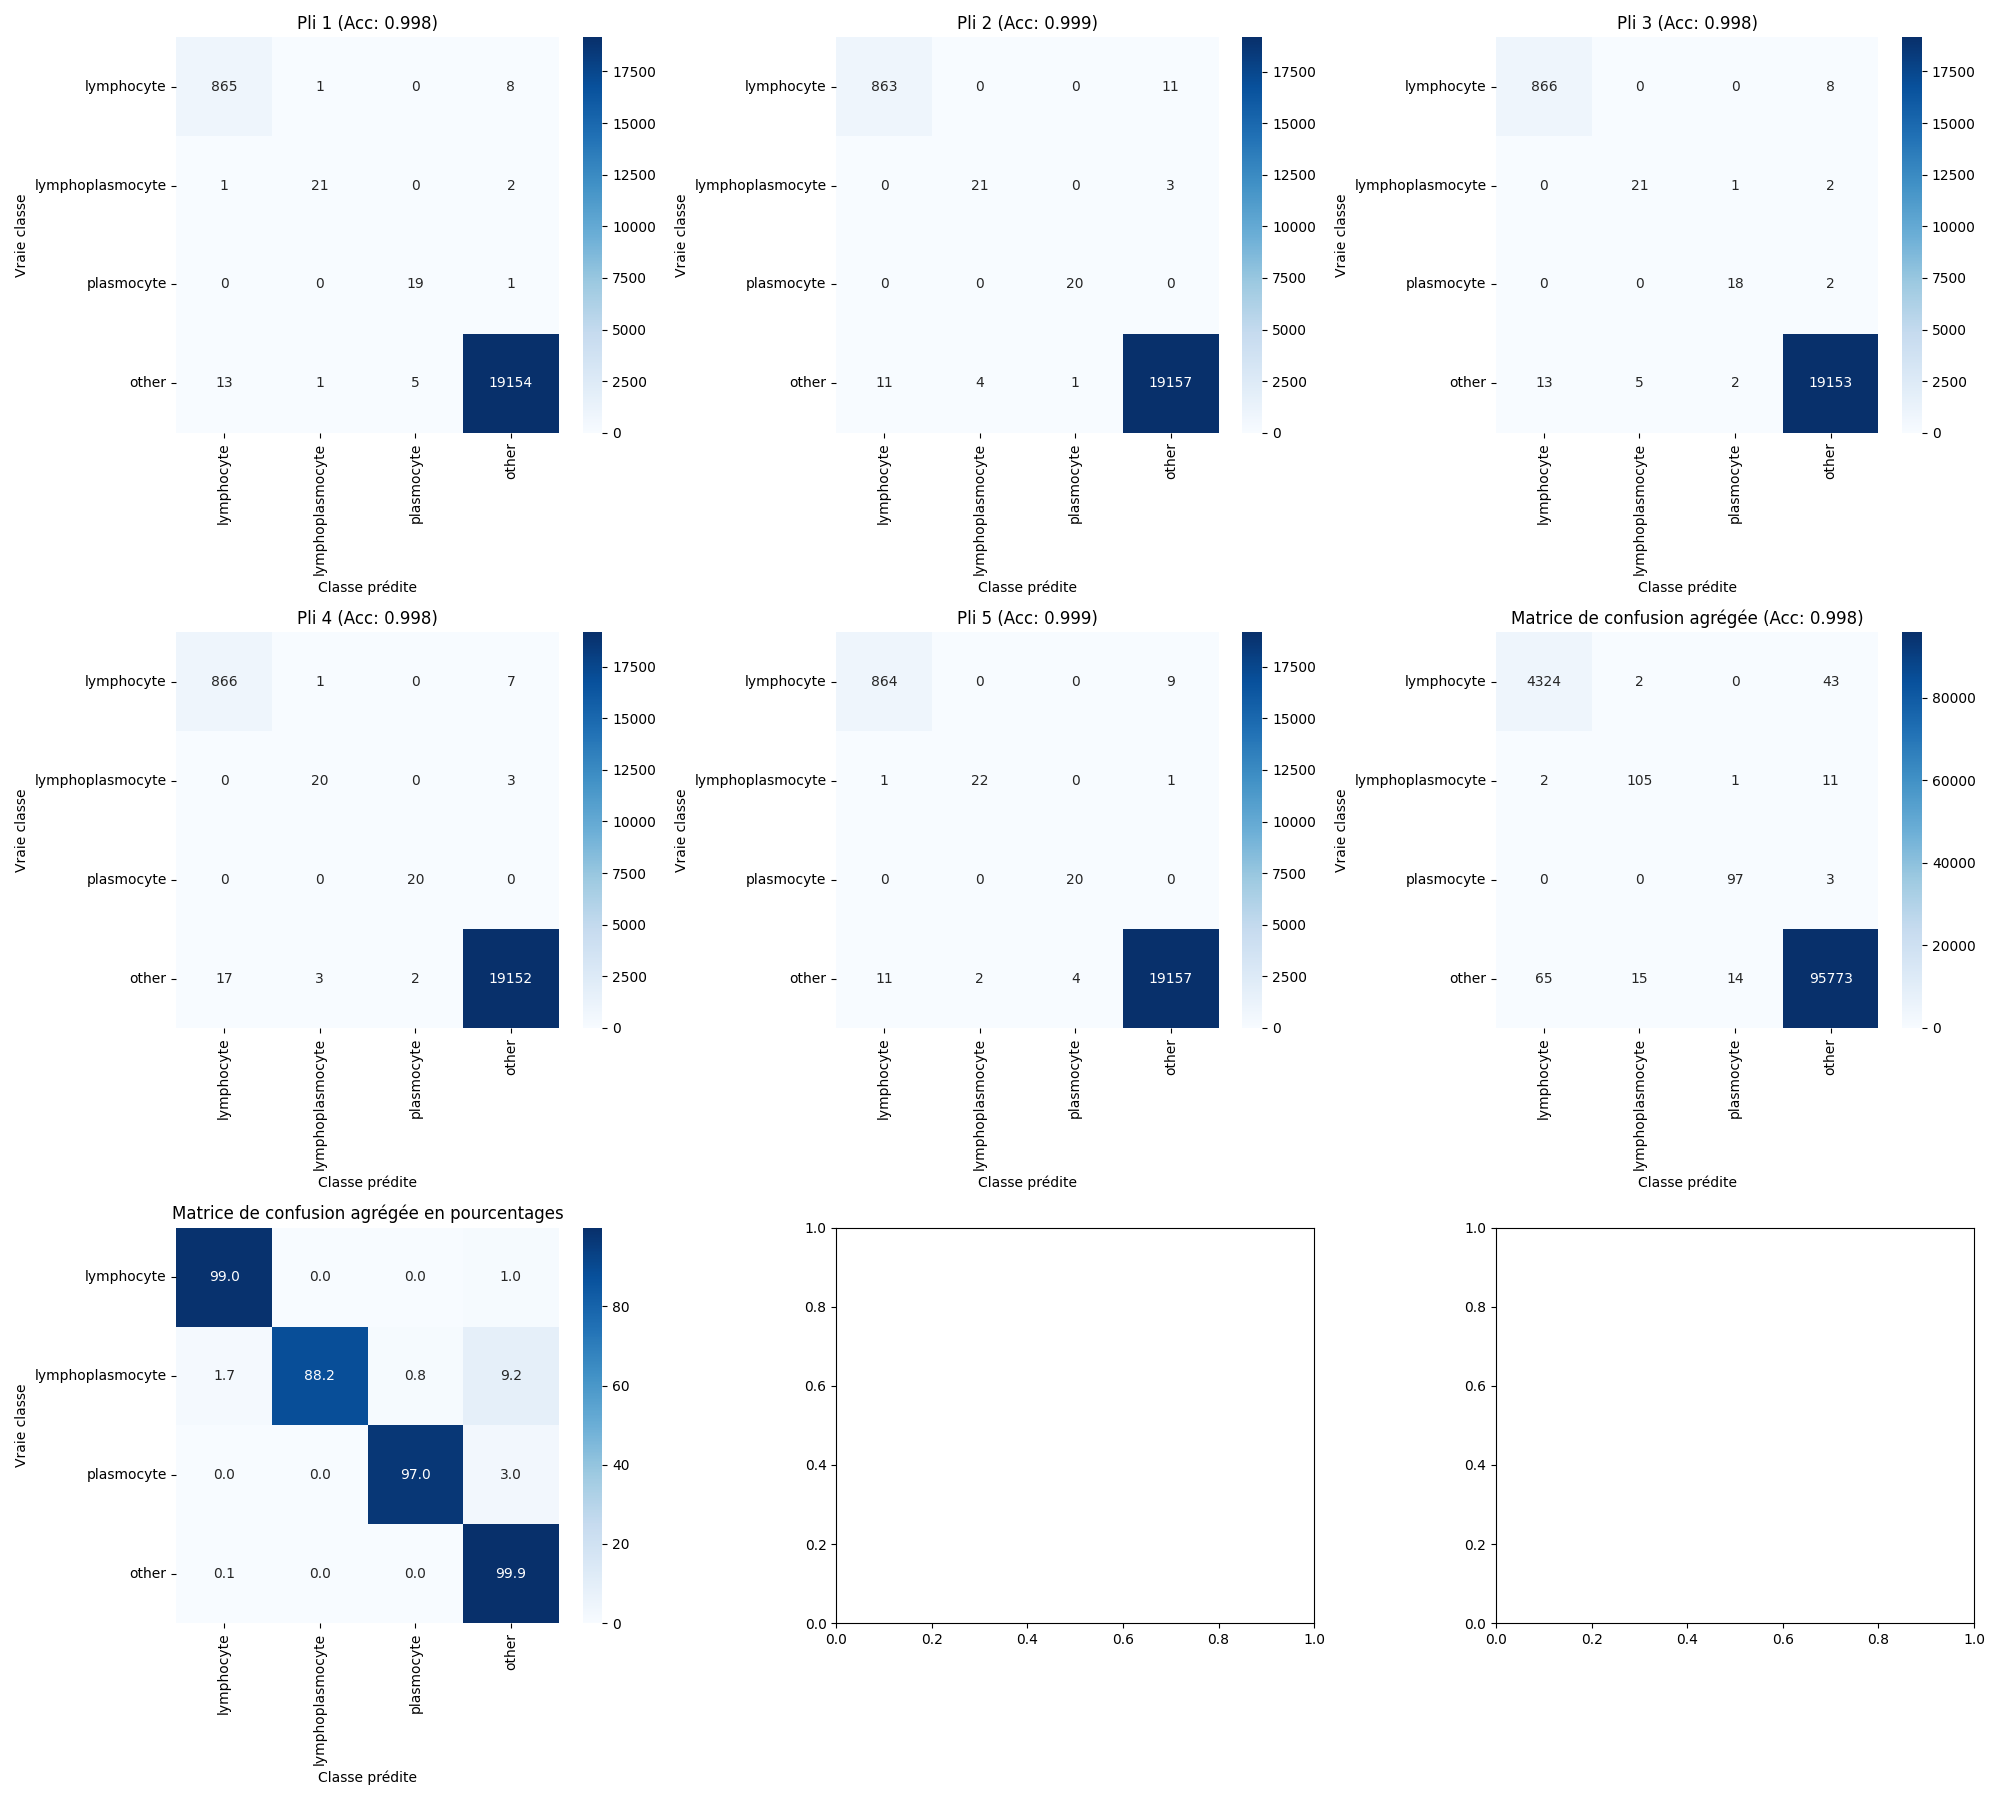
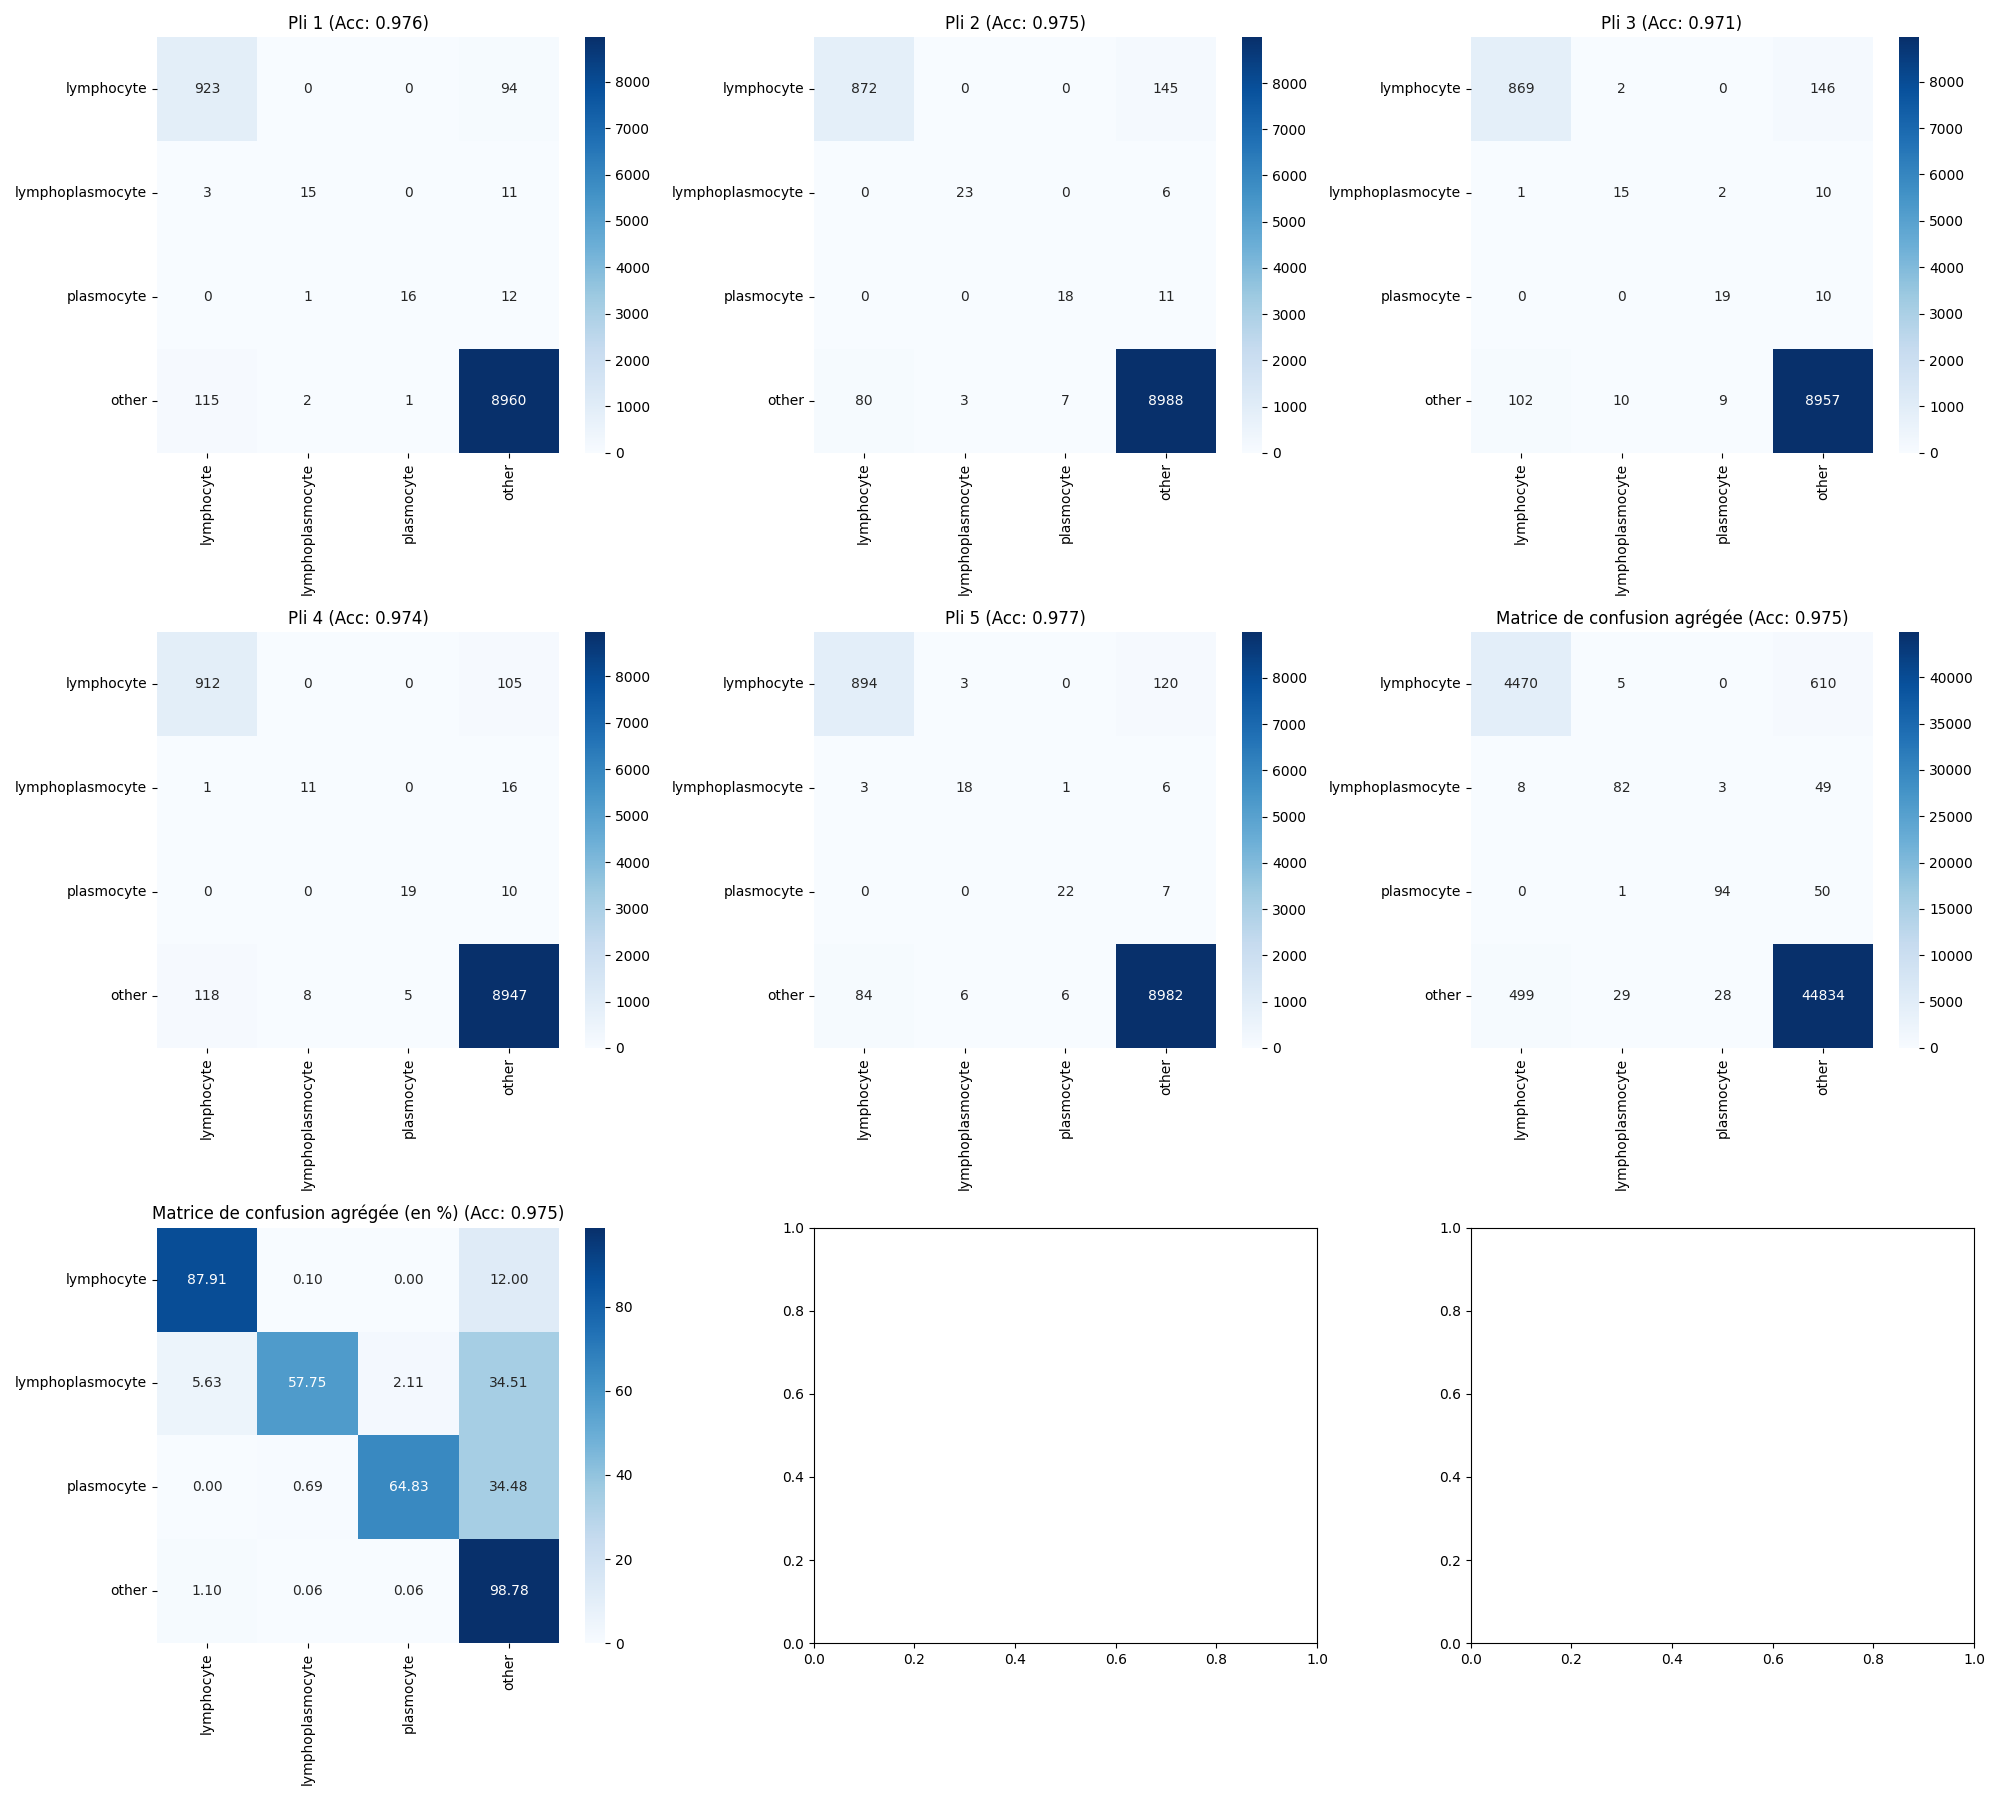
Implement MLP with Attention and Label Propagation: - Added new script for MLP model with attention mechanism and label propagation for semi-supervised learning. - Introduced functions for training, evaluation, and confusion matrix visualization. - Added new confusion matrix images for model evaluat

diff --git a/MLP_attention_label_propagation.py b/MLP_attention_label_propagation.py
@@ -4,6 +4,7 @@ import tensorflow as tf
 from sklearn.model_selection import train_test_split, StratifiedKFold
 from sklearn.metrics import classification_report, confusion_matrix, accuracy_score
 from sklearn.preprocessing import StandardScaler
+from sklearn.semi_supervised import LabelPropagation
 import matplotlib.pyplot as plt
 import seaborn as sns
 from tensorflow.keras.models import Sequential
@@ -25,65 +26,62 @@ def build_mlp_attention_model(input_shape, num_classes):
     return model
 
 
-def get_high_confidence_predictions(model, X_unlabeled, confidence_threshold=0.8):
-    probabilities = model.predict(X_unlabeled)
-    max_probs = np.max(probabilities, axis=1)
-    predictions = np.argmax(probabilities, axis=1)
-    confident_indices = np.where(max_probs >= confidence_threshold)[0]
-    return confident_indices, predictions[confident_indices]
+def label_propagation_training(X_labeled, y_labeled, X_unlabeled, kernel='rbf', gamma=10):
+    # Préparation des données
+    X_train, X_test, y_train, y_test = train_test_split(
+        X_labeled, y_labeled, test_size=0.2, random_state=42, stratify=y_labeled
+    )
 
-
-def self_training_with_external_unlabeled(X_labeled, y_labeled, X_unlabeled, n_iterations=5, confidence_threshold=0.8):
-    # Séparation des données étiquetées en ensembles d'entraînement et de test
-    X_train, X_test, y_train, y_test = train_test_split(X_labeled, y_labeled, test_size=0.2, random_state=42,
-                                                        stratify=y_labeled)
-
-    # Initialisation et ajustement du scaler sur les données d'entraînement
+    # Standardisation des données
     scaler = StandardScaler()
     X_train_scaled = scaler.fit_transform(X_train)
     X_test_scaled = scaler.transform(X_test)
     X_unlabeled_scaled = scaler.transform(X_unlabeled)
 
-    # Création du modèle
-    model = build_mlp_attention_model(X_train_scaled.shape[1], len(np.unique(y_labeled)))
+    # Combinaison des données étiquetées et non étiquetées
+    X_combined = np.vstack((X_train_scaled, X_unlabeled_scaled))
 
-    # Variables pour suivre les données non étiquetées restantes
-    remaining_unlabeled = X_unlabeled_scaled.copy()
-    X_current_labeled = X_train_scaled.copy()
-    y_current_labeled = y_train.copy()
+    # Préparation des étiquettes (-1 pour les données non étiquetées)
+    y_combined = np.full(X_combined.shape[0], -1)
+    y_combined[:len(y_train)] = y_train
 
-    # Boucle de self-training
-    for iteration in range(n_iterations):
-        print(f"\nItération {iteration + 1}/{n_iterations}")
-        print("-" * 50)
+    # Création et entraînement du modèle de propagation d'étiquettes
+    label_prop_model = LabelPropagation(
+        kernel=kernel,
+        gamma=gamma,
+        n_jobs=-1,
+        max_iter=100
+    )
 
-        # Entraînement sur les données étiquetées actuelles
-        model.fit(X_current_labeled, y_current_labeled, epochs=10, batch_size=32, verbose=0)
+    print("Démarrage de la propagation d'étiquettes...")
+    label_prop_model.fit(X_combined, y_combined)
 
-        # Prédiction sur les données non étiquetées restantes
-        confident_indices, confident_predictions = get_high_confidence_predictions(
-            model, remaining_unlabeled, confidence_threshold
-        )
+    # Récupération des étiquettes propagées
+    propagated_labels = label_prop_model.transduction_
 
-        if len(confident_indices) == 0:
-            print("Aucune prédiction avec une confiance suffisante trouvée.")
-            break
+    # Séparation des données nouvellement étiquetées
+    newly_labeled = propagated_labels[len(y_train):]
+    X_newly_labeled = X_unlabeled_scaled
 
-        # Ajout des nouvelles données étiquetées
-        X_new_labeled = remaining_unlabeled[confident_indices]
-        y_new_labeled = confident_predictions
+    # Combinaison des données d'origine et nouvellement étiquetées
+    X_final_labeled = np.vstack((X_train_scaled, X_newly_labeled))
+    y_final_labeled = np.concatenate((y_train, newly_labeled))
 
-        X_current_labeled = np.vstack((X_current_labeled, X_new_labeled))
-        y_current_labeled = np.concatenate((y_current_labeled, y_new_labeled))
+    # Entraînement du modèle neuronal final avec toutes les données étiquetées
+    final_model = build_mlp_attention_model(X_train_scaled.shape[1], len(np.unique(y_labeled)))
+    final_model.fit(
+        X_final_labeled,
+        y_final_labeled,
+        epochs=10,
+        batch_size=32,
+        verbose=1
+    )
 
-        # Mise à jour des données non étiquetées restantes
-        remaining_unlabeled = np.delete(remaining_unlabeled, confident_indices, axis=0)
+    print(f"\nNombre total d'exemples étiquetés après propagation: {len(y_final_labeled)}")
+    print(f"Dont {len(y_train)} exemples initialement étiquetés")
+    print(f"Et {len(newly_labeled)} exemples nouvellement étiquetés")
 
-        print(f"Ajout de {len(confident_indices)} nouveaux exemples étiquetés")
-        print(f"Nombre total d'exemples étiquetés: {len(y_current_labeled)}")
-        print(f"Nombre d'exemples non étiquetés restants: {len(remaining_unlabeled)}")
-
-    return model, scaler, X_current_labeled, y_current_labeled, X_test_scaled, y_test
+    return final_model, scaler, X_final_labeled, y_final_labeled, X_test_scaled, y_test
 
 
 def evaluate_with_cross_validation(X, y, input_shape, num_classes, model, class_names, n_splits=5):
@@ -101,7 +99,9 @@ def evaluate_with_cross_validation(X, y, input_shape, num_classes, model, class_
 
         # Création d'une nouvelle instance du modèle
         model_fold = tf.keras.models.clone_model(model)
-        model_fold.compile(optimizer=Adam(learning_rate=0.001), loss='sparse_categorical_crossentropy', metrics=['accuracy'])
+        model_fold.compile(optimizer=Adam(learning_rate=0.001),
+                           loss='sparse_categorical_crossentropy',
+                           metrics=['accuracy'])
 
         # Entraînement du modèle sur le pli d'entraînement
         model_fold.fit(X_train_fold, y_train_fold, epochs=10, batch_size=32, verbose=0)
@@ -143,7 +143,7 @@ def evaluate_with_cross_validation(X, y, input_shape, num_classes, model, class_
     axes[len(cms) + 1].set_title(f'Matrice de confusion agrégée (en %) (Acc: {np.mean(accuracies):.3f})')
 
     plt.tight_layout()
-    plt.savefig('cv_confusion_matrices_mlp_attention_self.png')
+    plt.savefig('cv_confusion_matrices_label_propagation.png')
     plt.close(fig)
 
     return accuracies, cm_aggregated, cm_aggregated_percent
@@ -159,14 +159,19 @@ with open('reduced_unlabeled_cell_dataset.pkl', 'rb') as file:
     unlabeled_data = pickle.load(file)
 X_unlabeled = unlabeled_data['X_unlabeled']
 
-# Exécution de l'auto-formation
-final_model, scaler, X_final, y_final, X_test_scaled, y_test = self_training_with_external_unlabeled(
-    X_labeled, y_labeled, X_unlabeled, n_iterations=5, confidence_threshold=0.8
+# Exécution de la propagation d'étiquettes
+final_model, scaler, X_final, y_final, X_test_scaled, y_test = label_propagation_training(
+    X_labeled, y_labeled, X_unlabeled, kernel='rbf', gamma=10
 )
 
-# Validation croisée sur les données étiquetées de base
+# Évaluation avec validation croisée
 accuracies, cm_aggregated, cm_aggregated_percentage = evaluate_with_cross_validation(
-    X_final, y_final, input_shape=X_labeled.shape[1], num_classes=len(class_names), model=final_model, class_names=class_names)
+    X_labeled, y_labeled,
+    input_shape=X_labeled.shape[1],
+    num_classes=len(class_names),
+    model=final_model,
+    class_names=class_names
+)
 
 # Évaluation finale sur l'ensemble de test
 print("\nPerformances finales sur l'ensemble de test :")

diff --git a/MLP_simple_attention.py b/MLP_simple_attention.py
@@ -22,16 +22,11 @@ class_names = data['class_names']
 # Split des données
 X_train, X_test, y_train, y_test = train_test_split(X, y, test_size=0.2, random_state=42, stratify=y)
 
-# Standardisation
-scaler = StandardScaler()
-X_train_scaled = scaler.fit_transform(X_train)
-X_test_scaled = scaler.transform(X_test)
-
 # Définition du modèle avec une couche d'attention avant le MLP
-input_layer = Input(shape=(X_train_scaled.shape[1],))  # Entrée avec le nombre de features
+input_layer = Input(shape=(X_train.shape[1],))  # Entrée avec le nombre de features
 
 # Reshape des entrées pour utiliser l'attention
-reshaped_input = Reshape((X_train_scaled.shape[1], 1))(input_layer)
+reshaped_input = Reshape((X_train.shape[1], 1))(input_layer)
 
 # Couche d'attention
 attention = Attention()([reshaped_input, reshaped_input, reshaped_input])
@@ -70,7 +65,8 @@ def plot_cv_confusion_matrices(model, X, y, cv, class_names):
     for idx, (train_idx, val_idx) in enumerate(cv.split(X, y)):
         # Création d'une nouvelle instance du modèle
         model_fold = tf.keras.models.clone_model(model)
-        model_fold.compile(optimizer=Adam(learning_rate=0.001), loss='sparse_categorical_crossentropy', metrics=['accuracy'])
+        model_fold.compile(optimizer=Adam(learning_rate=0.001), loss='sparse_categorical_crossentropy',
+                           metrics=['accuracy'])
 
         # Split des données
         X_train_fold = X[train_idx]
@@ -78,11 +74,16 @@ def plot_cv_confusion_matrices(model, X, y, cv, class_names):
         X_val_fold = X[val_idx]
         y_val_fold = y[val_idx]
 
+        # Standardisation spécifique à chaque pli
+        scaler_fold = StandardScaler()
+        X_train_fold_scaled = scaler_fold.fit_transform(X_train_fold)
+        X_val_fold_scaled = scaler_fold.transform(X_val_fold)
+
         # Entraînement du modèle
-        model_fold.fit(X_train_fold, y_train_fold, epochs=10, batch_size=32, verbose=0)
+        model_fold.fit(X_train_fold_scaled, y_train_fold, epochs=10, batch_size=32, verbose=0)
 
         # Prédictions
-        y_pred_fold = np.argmax(model_fold.predict(X_val_fold), axis=1)
+        y_pred_fold = np.argmax(model_fold.predict(X_val_fold_scaled), axis=1)
 
         # Calcul de l'accuracy
         acc = accuracy_score(y_val_fold, y_pred_fold)
@@ -123,12 +124,17 @@ def plot_cv_confusion_matrices(model, X, y, cv, class_names):
     return cms, cm_aggregated, cm_percentage, accuracies
 
 
-cms, cm_aggregated, cm_percentage, accuracies = plot_cv_confusion_matrices(model, X_train_scaled, y_train, cv, class_names)
+cms, cm_aggregated, cm_percentage, accuracies = plot_cv_confusion_matrices(model, X_train, y_train, cv, class_names)
+
+# Scaler final ajusté sur tout l'ensemble d'entraînement
+scaler_final = StandardScaler()
+X_train_scaled = scaler_final.fit_transform(X_train)  # Ajuste et transforme l'ensemble d'entraînement
+X_test_scaled = scaler_final.transform(X_test)  # Transforme l'ensemble de test avec le même scaler
 
 # Entraînement final sur tout l'ensemble d'entraînement
 model.fit(X_train_scaled, y_train, epochs=10, batch_size=32)
 
-# Évaluation sur l'ensemble de test
+# Évaluation finale sur l'ensemble de test
 y_pred_test = np.argmax(model.predict(X_test_scaled), axis=1)
 print("\nPerformances sur l'ensemble de test:")
 print("-" * 50)
